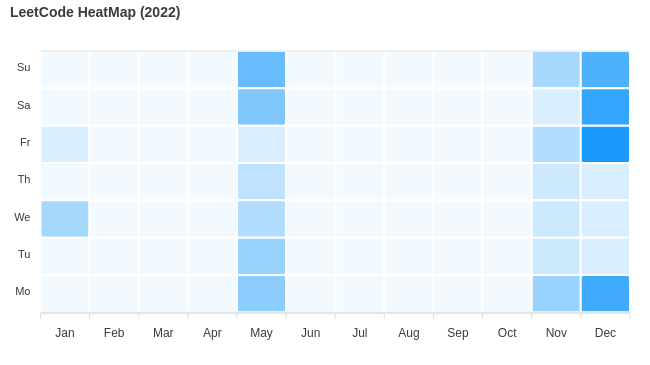
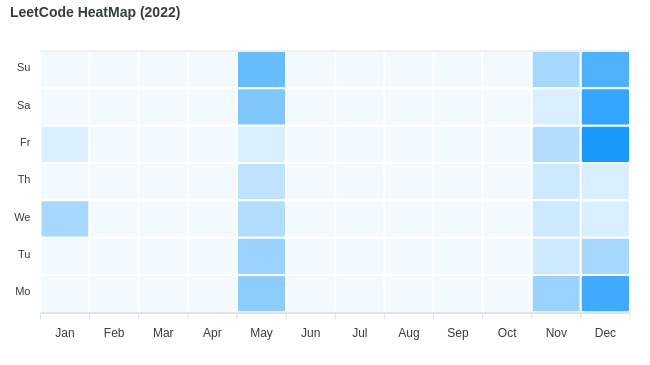
update heatmap.png

Changed region(s): [[0.8923, 0.6329, 0.9846, 0.7534]]

diff --git a/README.md b/README.md
@@ -3,7 +3,7 @@
 
 Collection of LeetCode questions to ace the coding interview! - Created using [LeetHub](https://github.com/QasimWani/LeetHub)
 
-> Questions solved 148
+> Questions solved 152
 
 ## Contribution 
 
